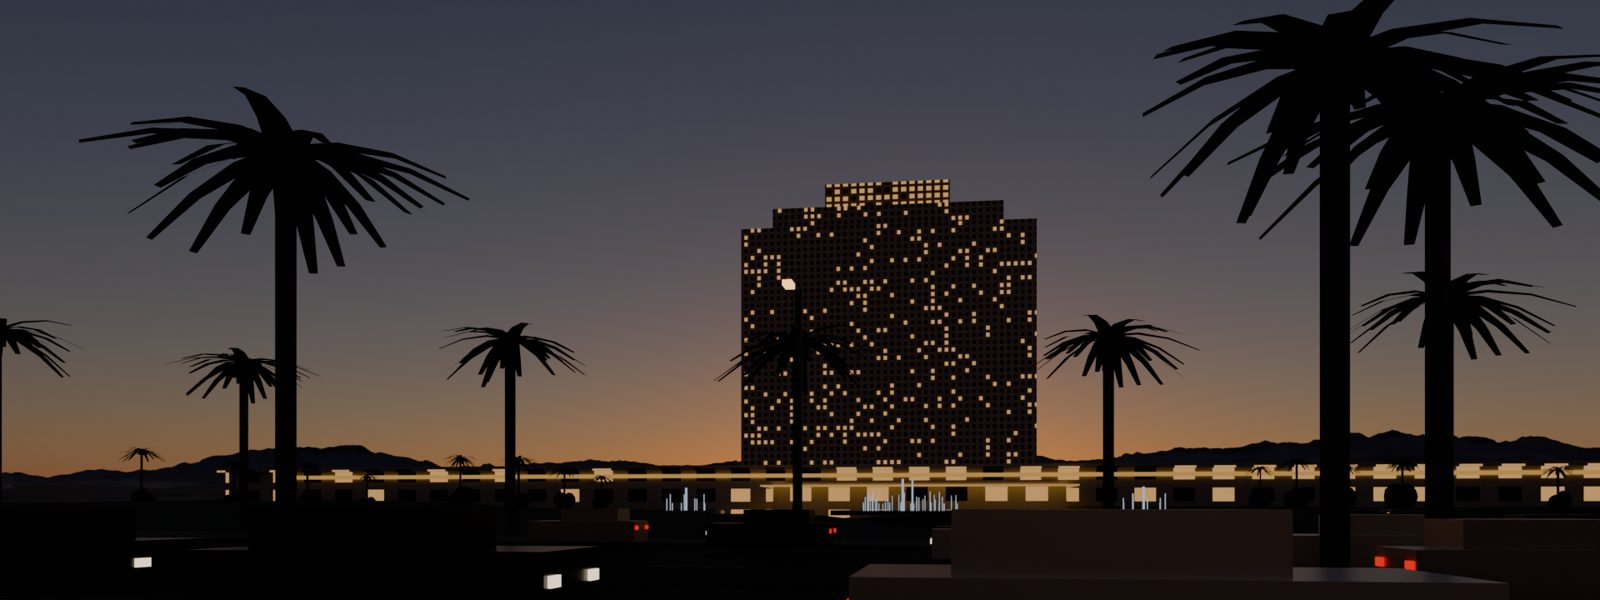
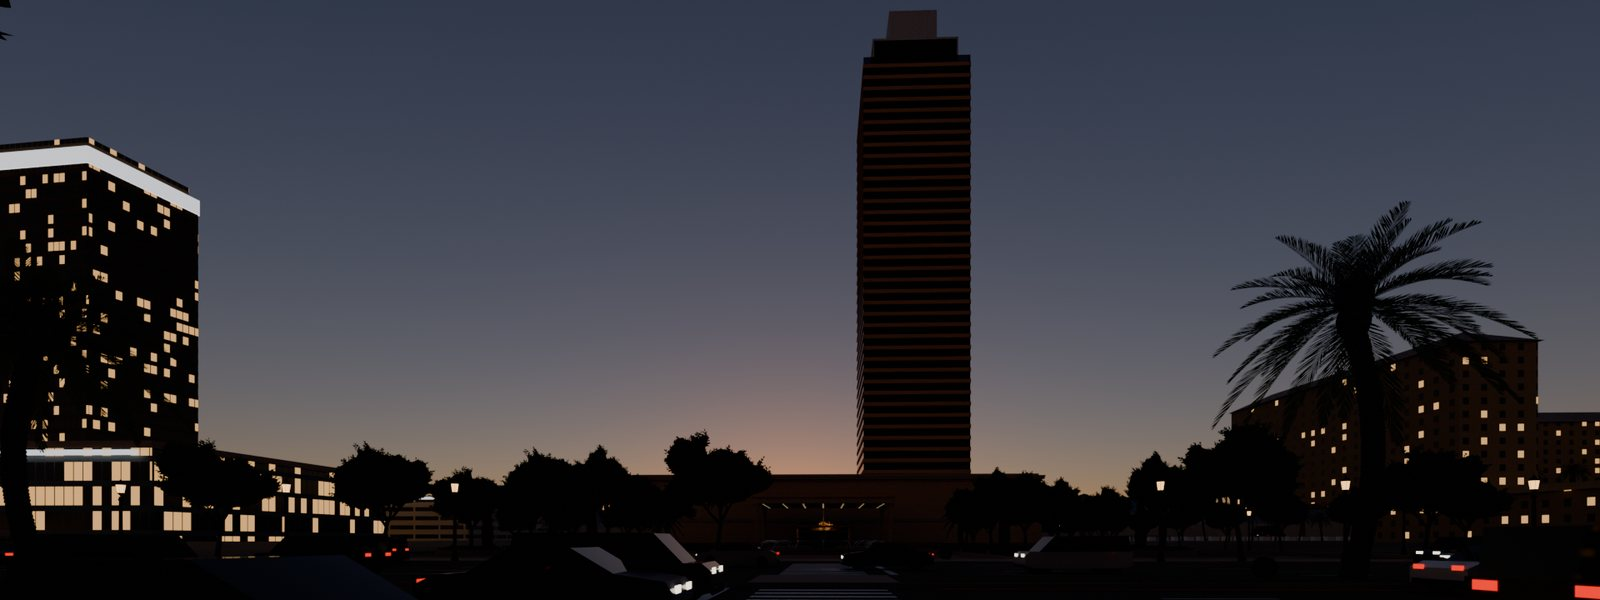
The Dun: the Strip pass replaces the first blockout renders, with the Strip itself and the interchange added.

diff --git a/index.html b/index.html
@@ -199,32 +199,35 @@ footer .small{color:#8f829d;font-size:.84rem;margin-top:20px}
 <main id="main">
   <div class="wrap">
 
-    <!-- THE DUN: the four lab renders the Owner posted to Bluesky and X on 2026-09-29
-         (the game repo's docs/social/queue/2026-09-29-bluesky-brindle-flats-lab.md), with
-         that post's words and alt text, unchanged. Already public, so nothing here is new.
-         Renders only: a lab blockout on real USGS terrain, modelled with AI tools, no
-         image generation. -->
+    <!-- THE DUN: the lab's Strip pass (milestone 2, 2026-10-02), on the page 2026-10-03.
+         The words are the 2026-09-29 post's (the game repo's
+         docs/social/queue/2026-09-29-bluesky-brindle-flats-lab.md) plus one sentence of the
+         Eye's about the neighbours. Renders only, modelled with AI tools on real USGS
+         terrain: no image generation in these frames. -->
     <section aria-labelledby="h-dun">
       <div class="label">The Dun</div>
       <h2 id="h-dun">Why our casino faces east</h2>
       <div class="copy">
         <p>On the real terrain, the sun drops behind the western range 18 minutes before
         sunset. Dusk arrivals see the Vulp against the last light, and the morning after, its
-        front takes the first sun.</p>
+        front takes the first sun. The Strip around it has nine neighbours, and none of them is
+        a real casino.</p>
       </div>
       <div class="gallery">
         <figure class="wide"><img src="img/dun_vulp_dusk.jpg" width="1600" height="600" loading="lazy"
-          alt="A tall casino tower at dusk, its windows scattered with warm lights, framed by black palm silhouettes. A long low building glows gold along its base, fountains sparkle in the forecourt, and red tail lights cross the foreground under a violet sky."></figure>
+          alt="The Vulp's hotel tower at dusk, dark against a peach glow on the horizon, between lit neighbouring hotels, with palm silhouettes and red tail lights on the street below."></figure>
         <figure><img src="img/dun_morning_after.jpg" width="1600" height="600" loading="lazy"
-          alt="The same tower the morning after, its east face lit gold by the rising sun. Rows of palms and streetlights stand in silhouette below a clear deep-blue sky, with brown mountains low on the horizon."></figure>
-        <figure><img src="img/dun_opening.jpg" width="1600" height="600" loading="lazy"
-          alt="Dusk seen from inside a concrete parking garage, with a large numeral 3 painted on a pillar. Beyond the ledge, the hotel tower glows with hundreds of lit windows under a lavender and peach sky, above a low casino building and palm silhouettes."></figure>
+          alt="The same tower the morning after under a clear blue sky, seen past a tall sandstone pillar and palms, with a low mission-style building and a small bell tower at right."></figure>
+        <figure><img src="img/dun_strip_dusk.jpg" width="1600" height="600" loading="lazy"
+          alt="The Strip at dusk from the median: a wide boulevard of traffic under date palms and lamp posts, lit hotel towers on both sides, and red tail lights running to the horizon."></figure>
+        <figure class="wide"><img src="img/dun_interchange.jpg" width="1600" height="600" loading="lazy"
+          alt="The Strip from the air at dusk: a freeway interchange in the foreground, and resort towers of many different shapes lit along the boulevard, with mountains behind."></figure>
         <figure class="wide"><img src="img/dun_east_ridge.jpg" width="1600" height="600" loading="lazy"
-          alt="A vast desert city seen from a mountain ridge at sunset. A grid of streets and tiny houses stretches for miles to a line of lit resort towers, with a jagged range behind and the sun sitting just above it."></figure>
+          alt="The whole city from the eastern ridge at sunset: a grid of houses stretching for miles to a thin line of resort towers, with the sun sitting just above the western range."></figure>
       </div>
-      <p class="gallery-note">Lab blockout on real USGS terrain, modelled with AI tools. No image
-      generation. Elevation data available from the U.S. Geological Survey, National
-      Geospatial Program.</p>
+      <p class="gallery-note">Work in progress: modelled in 3D with AI tools on real USGS terrain,
+      before its human pass. No image generation. Elevation data available from the U.S.
+      Geological Survey, National Geospatial Program.</p>
     </section>
 
     <!-- THE VULP: renders from the lab's 3D build (run 3, 2026-10-02: the exterior, the
